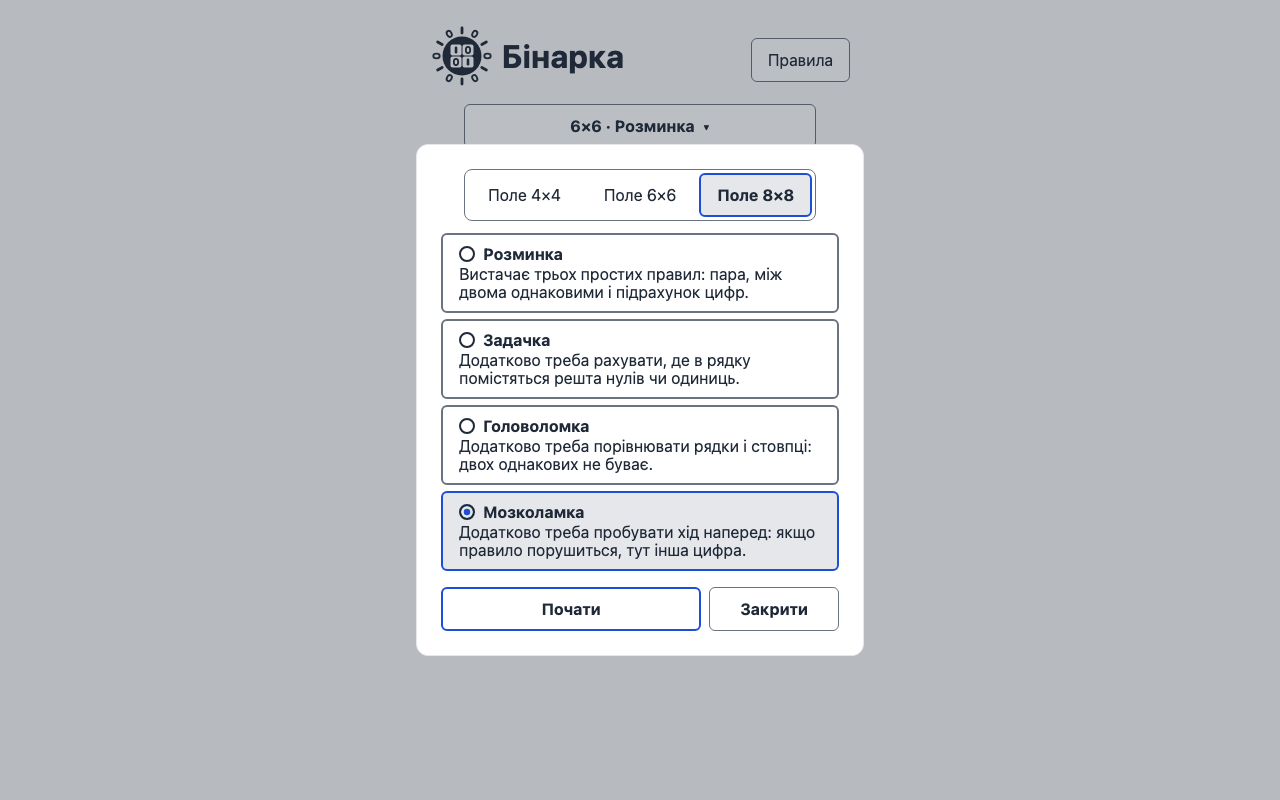
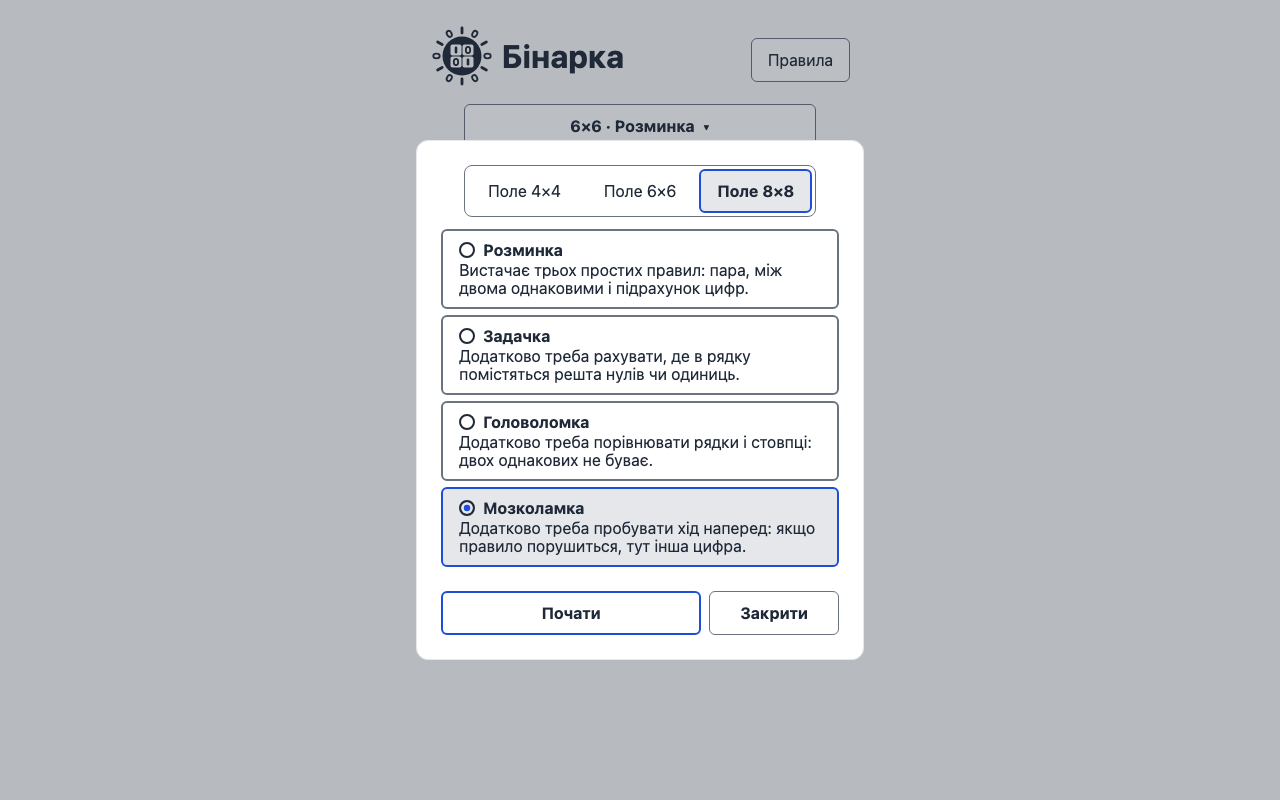
fix: keep a focused option clear of the setup sheet footer (second fix round)
Confirming run wf_d2edbb2b-4db, major finding 1 (reproduced): the sticky
footer strip hid a keyboard-focused level option when the sheet scrolls.
- The open sheet declares scroll-padding-bottom: calc(2.75rem + 48px)
  (strip 2.75rem + 16px, bottom padding up to 24px, ring 5px), and the
  level group keeps 24px below it inside the sheet, so the browser's focus
  scrolling brings the ring above the strip even at full scroll. Tried
  first and measured too small: 2.75rem + 24px, then 2.75rem + 40px.
- Minor findings of the same run: the two buttons span every row with
  align-self: end (as in the design, so a sticky item is not confined to
  the last row), the strip fades in (as in the design) and takes taps
  itself instead of passing them to a hidden option.
Measured after: 0 of 6 focused options under the strip at 320x700,
1366x650, 320x568 and 375x667 (focus-obscured-repro.txt); the 57-step
browser check still passes; vitest 1295 of 1295, test:e2e 47 passed,
check:a11y 38 passed.

Slice: update-setup-sheet-start
Refs: FR-65, FR-96, NFR-13

diff --git a/src/ui/style.css b/src/ui/style.css
@@ -534,10 +534,15 @@ button:focus-visible {
   grid-template-rows: auto auto minmax(2.75rem, 1fr);
   column-gap: 8px;
   align-content: start;
+  /* Focus scrolling keeps a focused option and its ring above the footer strip (FR-65, WCAG 2.4.11): the strip is
+     2.75rem + 16px tall, the sticky row sits on the sheet's bottom padding (16px, 24px from 48rem), and the ring
+     reaches 5px beyond the option (measured in Chromium, docs/qa/update-setup-sheet-start/focus-obscured-repro.txt). */
+  scroll-padding-bottom: calc(2.75rem + 48px);
 }
 
-/* One opaque strip behind the footer row (as in the design): scrolled content never shows between or under the two
-   buttons. It spans every row, sits at the end and sticks with them; it takes no pointer events. */
+/* One strip behind the footer row (as in the design): scrolled content fades out above it and never shows between
+   or under the two buttons. It spans every row, sits at the end and sticks with them; a tap on it reaches no hidden
+   option, because it takes the tap itself (the buttons paint above it). */
 .setup-sheet:popover-open::before {
   content: '';
   grid-column: 1 / -1;
@@ -546,22 +551,24 @@ button:focus-visible {
   position: sticky;
   bottom: 0;
   height: calc(2.75rem + 16px);
-  background-color: var(--color-control-bg);
+  background: linear-gradient(to bottom, transparent, var(--color-control-bg) 16px);
   box-shadow: 0 16px 0 16px var(--color-control-bg);
-  pointer-events: none;
 }
 
 .setup-sheet > * {
   grid-column: 1 / -1;
 }
 
-/* Explicit rows (as in the design): the strip below spans every row, so auto-placement must not move the groups. */
+/* Explicit rows (as in the design): the strip and the two buttons span every row, so auto-placement must not move
+   the groups. */
 .setup-sheet > [data-control='size'] {
   grid-row: 1;
 }
 
 .setup-sheet > [data-control='level'] {
   grid-row: 2;
+  /* Room for the ring of the last level option above the footer strip at full scroll (FR-65, WCAG 2.4.11). */
+  margin-bottom: 24px;
 }
 
 .setup-sheet > .setup-start {
@@ -574,7 +581,7 @@ button:focus-visible {
 
 .setup-sheet > .setup-start,
 .setup-sheet > .setup-close {
-  grid-row: 3;
+  grid-row: 1 / -1;
   align-self: end;
   position: sticky;
   bottom: 0;
